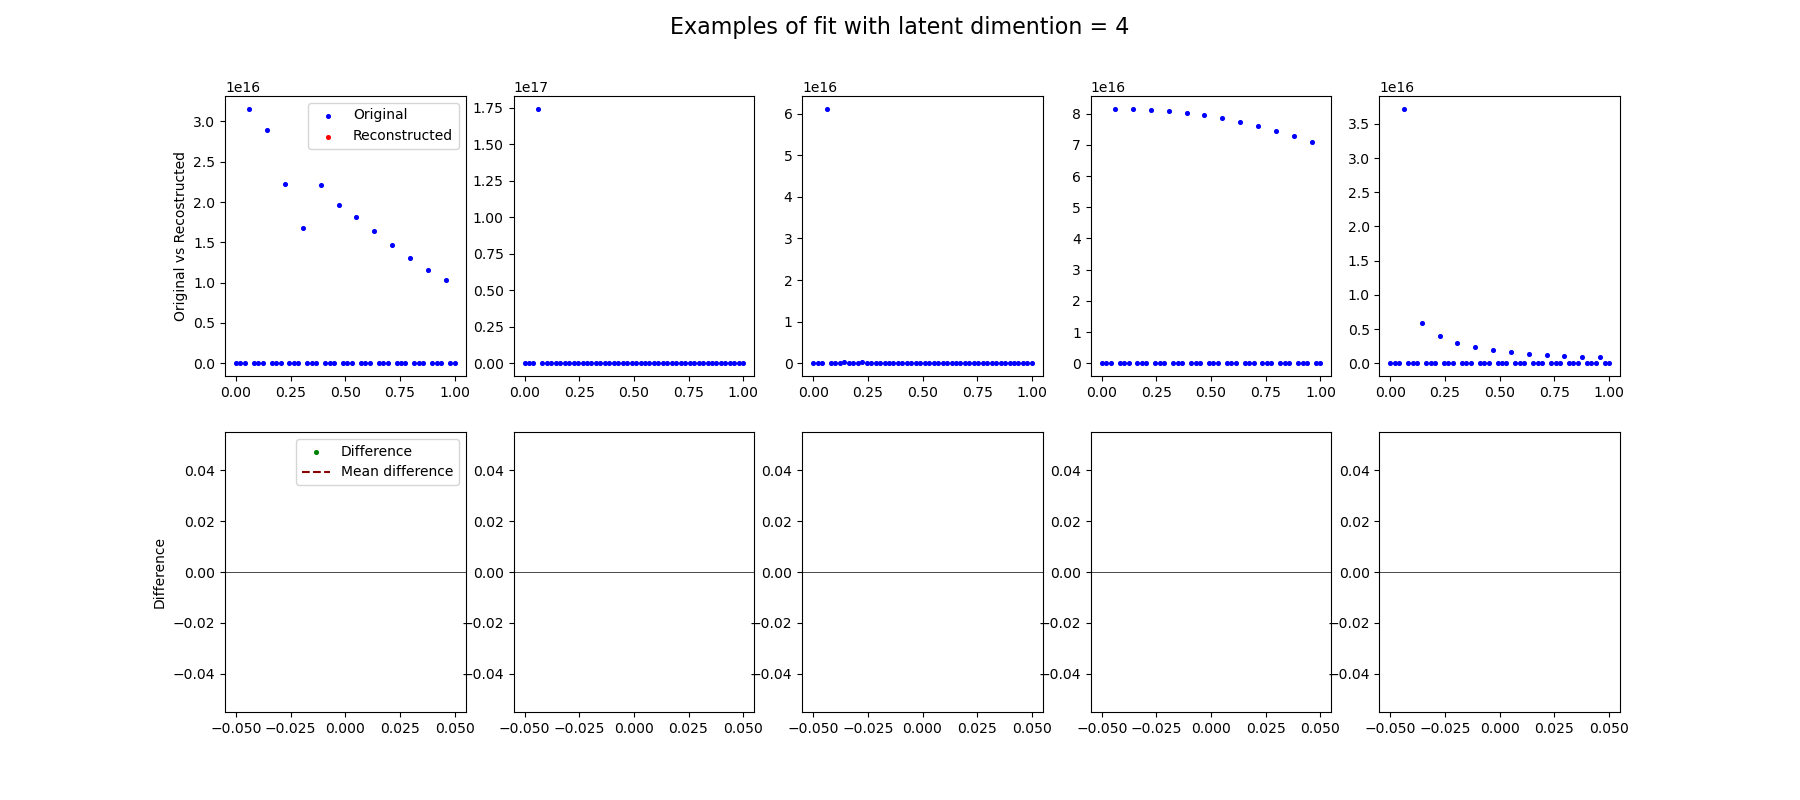
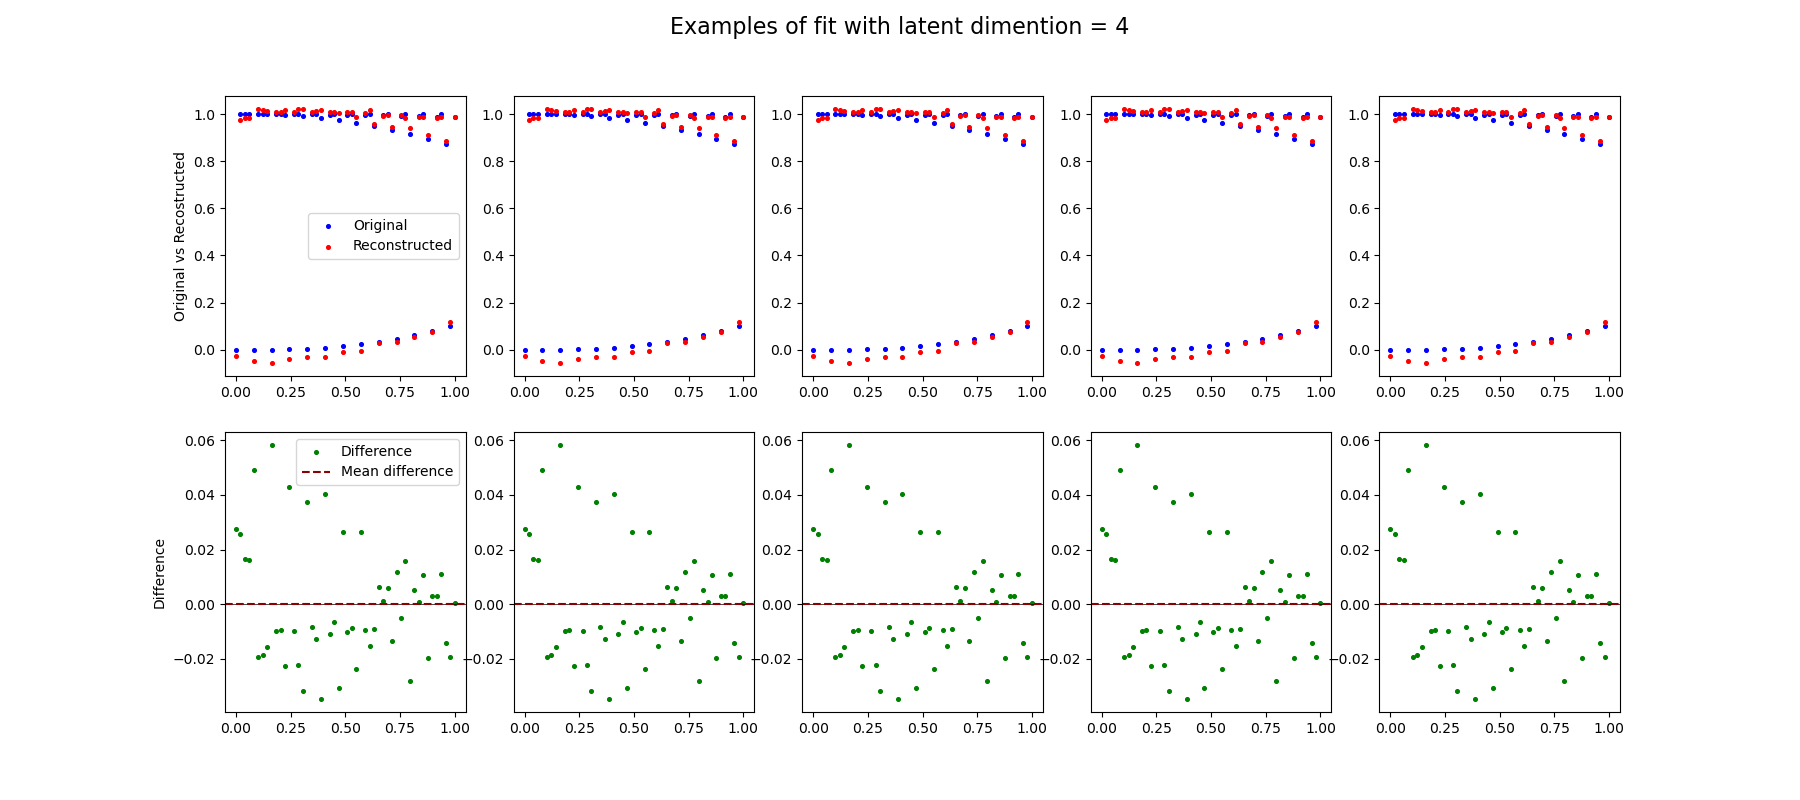
Total loss computed

diff --git a/project/all_features_norm_ok.py b/project/all_features_norm_ok.py
@@ -18,6 +18,7 @@ from keras.datasets import mnist
 from keras import backend as K
 from tqdm import tqdm 
 from itertools import product
+from sklearn.preprocessing import MinMaxScaler 
 
 ### 
 # Fare un grid search per le dim degli strati e il padding (error catch per il padding)
@@ -25,12 +26,13 @@ from itertools import product
 # trovare la dim_latente migliore
 # slope leakyrelu (?fatto)
 # cumsum delle distanze tra input e output (come estimator)
+# il numero di epoche va bene? 
 
 
 # define the current working directory
 cwd = os.getcwd()  
 
-dir_names=['all'] 
+dir_names=['MESA-Web_M07_Z00001'] 
 column_filter = ['mass','radius', 'initial_mass', 'initial_z', 'star_age', 'logRho','logT','Teff','energy','photosphere_L', 'photosphere_r', 'star_mass','h1','he3','he4']
 column_filter_train = ['mass', 'logRho','logT','energy'] 
 n_points=50   # n of points to sample from each profile
@@ -41,6 +43,9 @@ if dir_names[0] == 'all':
                  'MESA-Web_M10_Z00001', 'MESA-Web_M15_Z0001', 'MESA-Web_M15_Z00001', 'MESA-Web_M30_Z00001',
                  'MESA-Web_M30_Z002', 'MESA-Web_M50_Z00001', 'MESA-Web_M50_Z002', 'MESA-Web_M50_Z001',
                  'MESA-Web_M5_Z002', 'MESA-Web_M5_Z0001', 'MESA-Web_M1_Z00001', 'MESA-Web_M1_Z0001']
+
+### Normalization of each column
+scalers = {column: MinMaxScaler() for column in column_filter_train}
 
 # Initialize a list to hold all data
 all_profiles = []
@@ -65,20 +70,30 @@ for i,dir_name in enumerate(tqdm(dir_names, desc="Importing data from directorie
     filtered_profile_df = profile_df[column_filter].copy()# Create a new DataFrame with only the selected columns
     train_filtered_profile_df = profile_df[column_filter_train].copy() # Create a new DataFrame with only the selected columns for autoencoder training
 
-    #Normalization process for each feature
+    ###Normalization process for each feature
     tot_radius=filtered_profile_df['photosphere_r']
     norm_radius=(filtered_profile_df['radius'] - filtered_profile_df['radius'].min())/(tot_radius-filtered_profile_df['radius'].min())
     
+
     norm_profiles = []
-    
-    for k, column in enumerate(column_filter_train):
-       norm = filtered_profile_df[column]
-       norm = np.asarray(norm.T)
-       int_norm = UnivariateSpline(norm_radius, norm, k=2, s=0)(r)
-       norm_profiles.append(int_norm)
 
-    all_profiles.append(np.array(norm_profiles).T)
+    ### Apply normalization for each training column
+    for column in column_filter_train:
+            column_values = filtered_profile_df[column].values.reshape(-1, 1)  # Reshape for sklearn
+            scalers[column].fit(column_values)  # Fit scaler
+            norm = scalers[column].transform(column_values).flatten()  # Normalize data
 
+            # Print the first 50 normalized mass values if the column is 'mass'
+            #if column == 'mass':
+                #print("Primi 50 valori normalizzati della massa:")
+                #print(norm[:50])  # Print the first 50 normalized mass values
+        
+
+            norm = np.asarray(norm.T)  # Convert to numpy array
+            int_norm = UnivariateSpline(norm_radius, norm, k=2, s=0)(r)  # Interpolate over the normalized radius
+            norm_profiles.append(int_norm)
+
+    all_profiles.append(np.array(norm_profiles).T)  # Append normalized profiles
 # Convert the list of profiles to a numpy array
 all_profiles = np.array(all_profiles)
 print("Final length of all profiles",len(all_profiles))
@@ -86,16 +101,10 @@ print("Final shape of all profiles:", all_profiles.shape)
 
 
 
-
-#print('linear train_df shape:', linear_train_df.shape)
-#print(linear_train_df)
-
-
-x_train, x_test = train_test_split(all_profiles, test_size=0.2)
+x_train, x_test = train_test_split(all_profiles, test_size=0.2, shuffle=False) 
 print ('train shape :', x_train.shape) # (train_samples, n_points, num_features)
 print ('test shape:', x_test.shape) # (train_samples, n_points, num_features)
-#print(x_train)
-#print(x_test)
+
 
 
 # Reshape the data to match the input shape expected by the model
@@ -110,18 +119,6 @@ x_test_tf = tf.reshape(x_test, ( x_test.shape[0], n_points, num_features))
 # Print the shapes to verify
 print("x_train_tf shape:", x_train_tf.shape) #(1148, 50, 4)
 print("x_test_tf shape:", x_test_tf.shape) #(288, 50, 4)
-
-
-#Define all possible padding options
-#valid_paddings = ['valid', 'same']
-#best_combination = None
-
-#combinations = list(product(valid_paddings, repeat= 7))
-#print('combinations:', combinations)
-
-#for combination in combinations:
-    #print(f"Trying combination: {combination}")
-    #try:
 
 class Network(tf.keras.Model):
     def __init__(self, hyperparameters):
@@ -147,7 +144,7 @@ class Network(tf.keras.Model):
             tf.keras.layers.Conv1D(filters=256, kernel_size=3, strides=2, padding='same', activation=act),
             tf.keras.layers.Conv1D(filters=128, kernel_size=3, strides=2, padding='same', activation=act),
             tf.keras.layers.Conv1D(filters=71, kernel_size=3, strides=2, padding='valid', activation=act),
-            tf.keras.layers.Conv1D(filters=self.latent_dim, kernel_size=3, strides=2, padding='same', activation=act),
+            tf.keras.layers.Conv1D(filters=self.latent_dim, kernel_size=5, strides=2, padding='same', activation=act),
         ]) 
 
         self.decoder = tf.keras.Sequential([
@@ -185,13 +182,13 @@ hyperparameters = {
 }
 
 # Loop over latent dimensions (2 to 6)
-for latent_dim in range(2, 2):
+for latent_dim in range(4, 5):
     print(f"\nTraining with latent dim = {latent_dim}")
     hyperparameters['latent_dim'] = latent_dim
     autoencoder = Network(hyperparameters)
 
     # Compile the model
-    autoencoder.compile(optimizer='adam', loss=keras.losses.MeanSquaredError())
+    autoencoder.compile(optimizer='adam', loss=tf.keras.losses.MeanSquaredError())
 
     # Train the model
     history = autoencoder.fit(x_train_tf, x_train_tf,
@@ -200,9 +197,9 @@ for latent_dim in range(2, 2):
                               validation_data=(x_test_tf, x_test_tf),
                               callbacks=[tf.keras.callbacks.EarlyStopping(monitor='val_loss', patience=20)])
     
-    print(f"Latent Dim = {latent_dim}:")
-    print("Loss history:", history.history['loss'])
-    print("Validation Loss history:", history.history['val_loss'])
+    #print(f"Latent Dim = {latent_dim}:")
+    #print("Loss history:", history.history['loss'])
+    #print("Validation Loss history:", history.history['val_loss'])
 
     autoencoder.encoder.summary()
     autoencoder.decoder.summary()
@@ -210,38 +207,44 @@ for latent_dim in range(2, 2):
     # Make predictions on the test data
     x_reconstructed = autoencoder.predict(x_test_tf)
     print('Shape of x_reconstructed:', x_reconstructed.shape)
+    print("Test shpe:", x_test_tf.shape)
 
- 
+    print("#################################################")
+    print("Total loss:",autoencoder.compute_loss(x_test_tf, x_test_tf, x_reconstructed))
 
 
     # Plot the original and reconstructed data
-    n = 5
-    plt.figure(figsize= (18,8))
-    plt.suptitle(f'Examples of fit with latent dimention = {latent_dim}', fontsize= 16)
-    for j in range(n):
-        ax= plt.subplot(2, n, j + 1)
-        plt.scatter(r, x_test_tf.numpy()[j].reshape(-1, n_points)[0], color= 'blue', label='Original', s= 7)
-        plt.scatter(r, x_reconstructed[j].reshape(-1, n_points)[0], color= 'red', label = 'Reconstructed', s= 7)
-        if j == 0:
-            plt.legend(loc='best')
-        plt.axis('on')
-        if j ==0:
-            plt.ylabel('Original vs Recostructed')
+    fig, axes = plt.subplots(2, 4, figsize=(20, 10))  # 2 rows, 4 columns
 
-    # Display the difference
-        ax= plt.subplot(2, n, j+1+n)
-        difference= x_test_tf.numpy()[j].reshape(-1, n_points)[0] - x_reconstructed[j].reshape(-1, n_points)[0]       
+    # Plot original vs reconstructed for each feature in the first row
+    for i, feature in enumerate(column_filter_train):
+        ax = axes[0, i]
+        ax.scatter(r, x_test_tf[0, :, i], label='Original', color='blue', marker='o')
+        ax.scatter(r, x_reconstructed[0, :, i], label='Reconstructed', color='red', marker='x')
+        ax.set_title(f'{feature} (Latent Dim: {latent_dim})')
+        ax.set_xlabel('Normalized Radius')
+        ax.set_ylabel(f'{feature}')
+        ax.grid(True)
+        if i == 0:
+            ax.legend(loc='best')
+
+    # Plot the difference between original and reconstructed for each feature in the second row
+    for i, feature in enumerate(column_filter_train):
+        ax = axes[1, i]
+        difference = x_test_tf[0, :, i] - x_reconstructed[0, :, i]
         mean_difference = np.mean(difference)
-        plt.scatter(r, difference, color='green', s=7, label = 'Difference')
-        plt.axhline(0, color='black', linewidth=0.5)
-        plt.axhline(mean_difference, color ='darkred', linestyle='--', linewidth = 1.5, label ='Mean difference')
-       
-        if j == 0:
-            plt.ylabel('Difference')
-            plt.legend(loc= 'best')
-        plt.axis("on")
+        ax.scatter(r, difference, label=f'{feature} Difference', color='darkgreen', marker='o')
+        ax.axhline(0, color='black', linewidth=0.7)  # Horizontal line at y=0
+        ax.axhline(mean_difference, color ='darkred', linestyle='--', linewidth = 1.5, label ='Mean difference')
+        ax.set_title(f'{feature} Difference (Latent Dim: {latent_dim})')
+        ax.set_xlabel('Normalized Radius')
+        ax.set_ylabel(f'{feature} Difference')
+        ax.grid(True) 
+    
+    # Adjust layout
+    plt.tight_layout()
 
-    file_save_dir = os.path.join(os.getcwd(), "Graphs", f"OriginalReconstructed_{latent_dim}.png")
+    file_save_dir = os.path.join(os.getcwd(), "Graphs", f"LatentDim_{latent_dim}_Comparison.png")
     plt.savefig(file_save_dir)
     plt.close()
 

diff --git a/project/9_10_24.py b/project/9_10_24.py
@@ -1,0 +1,155 @@
+import mesa_web as mw
+import pandas as pd
+import matplotlib.pyplot as plt
+import numpy as np
+import tensorflow as tf
+import keras
+import os 
+import re
+
+from sklearn.metrics import accuracy_score, precision_score, recall_score
+from sklearn.model_selection import train_test_split
+from keras import  losses, layers, activations
+from keras.datasets import fashion_mnist
+from keras.models import Model
+from keras.layers import Input, Conv1D, MaxPooling1D, UpSampling1D
+from scipy.interpolate import UnivariateSpline
+from keras.datasets import mnist
+from keras import backend as K
+from tqdm import tqdm 
+from itertools import product
+
+### 
+# Fare un grid search per le dim degli strati e il padding (error catch per il padding)
+# n_points (?)
+# trovare la dim_latente migliore
+# slope leakyrelu (?fatto)
+# cumsum delle distanze tra input e output (come estimator)
+
+
+# define the current working directory
+cwd = os.getcwd()  
+
+dir_names=['MESA-Web_M07_Z00001'] 
+column_filter = ['mass','radius', 'initial_mass', 'initial_z', 'star_age', 'logRho','logT','Teff','energy','photosphere_L', 'photosphere_r', 'star_mass','h1','he3','he4']
+column_filter_train = ['mass', 'logRho','logT','energy'] 
+n_points=50   # n of points to sample from each profile
+r=np.linspace(0, 1, n_points) # n_points equidistant 
+
+if dir_names[0] == 'all':
+    dir_names = ['MESA-Web_M07_Z00001', 'MESA-Web_M07_Z002', 'MESA-Web_M10_Z002', 'MESA-Web_M10_Z0001',
+                 'MESA-Web_M10_Z00001', 'MESA-Web_M15_Z0001', 'MESA-Web_M15_Z00001', 'MESA-Web_M30_Z00001',
+                 'MESA-Web_M30_Z002', 'MESA-Web_M50_Z00001', 'MESA-Web_M50_Z002', 'MESA-Web_M50_Z001',
+                 'MESA-Web_M5_Z002', 'MESA-Web_M5_Z0001', 'MESA-Web_M1_Z00001', 'MESA-Web_M1_Z0001']
+
+# Initialize a list to hold all data
+all_profiles = []
+
+for i,dir_name in enumerate(tqdm(dir_names, desc="Importing data from directories")):
+
+  dir_name=os.path.join(cwd,'StellarTracks',dir_name)
+
+  def extract_number(filename): # function use to extract the number of the profile
+    match = re.search(r'\d+', filename)  #find the sequence of digits
+    return int(match.group()) if match else float('inf')
+
+  filenames=[filename for filename in os.listdir(dir_name) if re.fullmatch('profile[0-9]+\.data',filename)]
+  filenames=sorted(filenames, key=extract_number) #sort the elements according to the number in the name
+
+  for j,filename in enumerate(tqdm(filenames, desc=f"Importing from {dir_name}", leave=False)):
+
+    filename=os.path.join(dir_name,filename)
+    data=mw.read_profile(filename)
+
+    profile_df=pd.DataFrame(data) # DataFrame with all the columns
+    filtered_profile_df = profile_df[column_filter].copy()# Create a new DataFrame with only the selected columns
+    train_filtered_profile_df = profile_df[column_filter_train].copy() # Create a new DataFrame with only the selected columns for autoencoder training
+
+    #Normalization process for each feature
+    tot_radius=filtered_profile_df['photosphere_r']
+    norm_radius=(filtered_profile_df['radius'] - filtered_profile_df['radius'].min())/(tot_radius-filtered_profile_df['radius'].min())
+    
+    norm_profiles = []
+    
+    for k, column in enumerate(column_filter_train):
+       norm = filtered_profile_df[column]
+       norm = np.asarray(norm.T)
+       int_norm = UnivariateSpline(norm_radius, norm, k=2, s=0)(r)
+       norm_profiles.append(int_norm)
+
+    all_profiles.append(np.array(norm_profiles).T)
+
+# Convert the list of profiles to a numpy array
+all_profiles = np.array(all_profiles)
+print("Final length of all profiles",len(all_profiles))
+print("Final shape of all profiles:", all_profiles.shape)
+
+
+
+
+#print('linear train_df shape:', linear_train_df.shape)
+#print(linear_train_df)
+
+
+x_train, x_test = train_test_split(all_profiles, test_size=0.2)
+print ('train shape :', x_train.shape) # (train_samples, n_points, num_features)
+print ('test shape:', x_test.shape) # (train_samples, n_points, num_features)
+#print(x_train)
+#print(x_test)
+
+
+# Reshape the data to match the input shape expected by the model
+# The input shape is (batch_size, sequence_length, input_dim)
+# In our case, sequence_length = 50 and input_dim = n_features
+
+num_features = len(column_filter_train)
+
+x_train_tf = tf.reshape(x_train, ( x_train.shape[0], n_points, num_features))
+x_test_tf = tf.reshape(x_test, ( x_test.shape[0], n_points, num_features))
+
+# Print the shapes to verify
+print("x_train_tf shape:", x_train_tf.shape) #(1148, 50, 4)
+print("x_test_tf shape:", x_test_tf.shape) #(288, 50, 4)
+
+
+#Define all possible padding options
+#valid_paddings = ['valid', 'same']
+#best_combination = None
+
+#combinations = list(product(valid_paddings, repeat= 7))
+#print('combinations:', combinations)
+
+#for combination in combinations:
+    #print(f"Trying combination: {combination}")
+    #try:
+
+act = tf.keras.layers.LeakyReLU(0.4)
+
+e_layer1 = tf.keras.layers.Conv1D(filters=256, kernel_size=3, strides=2, padding='same', activation=act)(x_train_tf) # same
+e_layer2 = tf.keras.layers.Conv1D(filters=128, kernel_size=3, strides=2, padding='same', activation=act)(e_layer1) # same
+e_layer3 = tf.keras.layers.Conv1D(filters=71, kernel_size=3, strides=2, padding='valid', activation=act)(e_layer2) #valid
+e_layer4 = tf.keras.layers.Conv1D(filters=4, kernel_size=3, strides=2, padding='same', activation=act)(e_layer3) # same
+
+print('shape layer1: ', e_layer1.shape, '\n')
+print('shape layer2: ', e_layer2.shape, '\n')
+print('shape layer3: ', e_layer3.shape, '\n')
+print('shape layer4: ', e_layer4.shape, '\n')
+print('DECODER:', '\n')
+
+d_layer1 = tf.keras.layers.Conv1DTranspose(filters=71, kernel_size=3, strides=2, padding='same', activation=act)(e_layer4) # same
+d_layer2 = tf.keras.layers.Conv1DTranspose(filters=128, kernel_size=3, strides=2, padding='same', activation=act)(d_layer1) # same 
+d_layer3 = tf.keras.layers.Conv1DTranspose(filters=256, kernel_size=3, strides=2, padding='valid', activation=act)(d_layer2) # valid
+d_layer4 = tf.keras.layers.Conv1DTranspose(filters=4, kernel_size=3, strides=2, padding='same', activation=act)(d_layer3) # same
+
+print('shape layer1: ', d_layer1.shape, '\n')
+print('shape layer2: ', d_layer2.shape, '\n')
+print('shape layer3: ', d_layer3.shape, '\n')
+print('shape layer4: ', d_layer4.shape, '\n')
+
+
+
+    # Make predictions on the test data
+    #x_reconstructed = autoencoder.predict(x_test_tf)
+    #print('Shape of x_reconstructed:', x_reconstructed.shape)
+
+ 

diff --git a/project/test.py b/project/test.py
@@ -126,16 +126,16 @@ print("x_test_tf shape:", x_test_tf.shape) #(288, 50, 4)
 act = tf.keras.layers.LeakyReLU(0.4)
 
 encoder = tf.keras.Sequential([
-    tf.keras.layers.Conv1D(filters=256, kernel_size=3, strides=2, padding='same', activation=act),
+    tf.keras.layers.Conv1D(filters=256, kernel_size=3, strides=2, padding='same', activation=act), 
     tf.keras.layers.Conv1D(filters=128, kernel_size=3, strides=2, padding='same', activation=act),
-    tf.keras.layers.Conv1D(filters=71, kernel_size=3, strides=2, padding='same', activation=act),
+    tf.keras.layers.Conv1D(filters=71, kernel_size=3, strides=2, padding='valid', activation=act),
     tf.keras.layers.Conv1D(filters=4, kernel_size=3, strides=2, padding='same', activation=act)
     ])
 
 decoder = tf.keras.Sequential([
     tf.keras.layers.Conv1DTranspose(filters=71, kernel_size=3, strides=2, padding='same', activation=act),
     tf.keras.layers.Conv1DTranspose(filters=128, kernel_size=3, strides=2, padding='same', activation=act),
-    tf.keras.layers.Conv1DTranspose(filters=256, kernel_size=3, strides=2, padding='same', activation=act),
+    tf.keras.layers.Conv1DTranspose(filters=256, kernel_size=3, strides=2, padding='valid', activation=act),
     tf.keras.layers.Conv1DTranspose(filters=4, kernel_size=3, strides=2, padding='same', activation=act)
 ])
 
